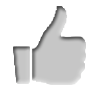
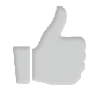
functionally complete

Changed region(s): [[0.12, 0.06, 0.66, 0.84], [0.57, 0.36, 0.87, 0.42]]

diff --git a/app/assets/stylesheets/home.css.scss b/app/assets/stylesheets/home.css.scss
@@ -32,26 +32,64 @@
     padding-top: 8px;
     color: grey;
   }
-  .vote-alert-icon {
-    background: url("vote-icon.png");
-    background-size: 25px;
-    background-position-y: 8px;
-    background-position-x: 2px;
-    background-repeat: no-repeat;
+  .alert-info {
+    width: 59px;
+    display: inline;
+    .vote-alert-icon {
+      background: url("vote-icon.png");
+      background-size: 25px;
+      background-position-y: 8px;
+      background-position-x: -2px;
+      background-repeat: no-repeat;
+    }
+    .vote-disabled-icon {
+      background: url("vote-icon-disabled.png");
+      background-size: 25px;
+      background-position-y: 8px;
+      background-position-x: -2px;
+      background-repeat: no-repeat;
+    }
+     .discussion-alert-icon {
+      background: url("discussion.png");
+      background-size: 25px;
+      background-position-y: 8px;
+      background-position-x: -2px;
+      background-repeat: no-repeat;
+    }
+     .discussion-disabled-icon {
+      background: url("discussion-disabled.png");
+      background-size: 25px;
+      background-position-y: 8px;
+      background-position-x: -2px;
+      background-repeat: no-repeat;
+    }
+   .vote-icon-container{
+      display: inline-block;
+      margin-left: -10px;
+      margin-top: -3px;
+      height: 30px;
+      width: 20px;
+    }
+   .discussion-icon-container{
+      display: inline-block;
+      margin-left: 5px;
+      margin-top: -3px;
+      height: 30px;
+      width: 20px;
+    }
   }
-  .icon{ margin-top: -3px; height: 30px; }
   #activity-count {
     font-size: 9px;
     display: inline;
-    margin-left: 20px;
+    margin-left: 16px;
   }
-  .toggle-button{
-    display: inline;
-    padding-top: 6px;
-    font-weight: bold;
-    color: #999999;
-    text-align: center;
-  }
+  /*.toggle-button{*/
+    /*display: inline;*/
+    /*padding-top: 6px;*/
+    /*font-weight: bold;*/
+    /*color: #999999;*/
+    /*text-align: center;*/
+  /*}*/
   .action-links{
     a{color: grey}
     margin-top: -5px;

diff --git a/app/models/comment.rb b/app/models/comment.rb
@@ -64,6 +64,6 @@ class Comment < ActiveRecord::Base
 
 private
   def update_activity
-    default_motion.update_discusion_activity
+    default_motion.update_discussion_activity
   end
 end

diff --git a/app/models/motion.rb b/app/models/motion.rb
@@ -151,7 +151,7 @@ class Motion < ActiveRecord::Base
     save
   end
 
-  def update_dicussion_activity
+  def update_discussion_activity
     self.discussion_activity += 1
     save
   end
